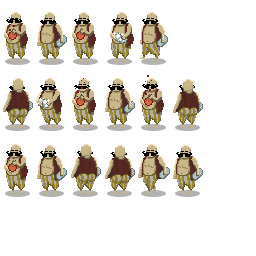
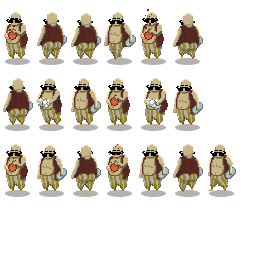
added animation for movement balancing

diff --git a/core/src/main/java/com/cultofboobles/entity/Player.java b/core/src/main/java/com/cultofboobles/entity/Player.java
@@ -31,6 +31,7 @@ public class Player implements Entity {
 
     private final Animation<TextureRegion> walkFront;
     private final Animation<TextureRegion> idleFront;
+    private final Animation<TextureRegion> walkBack;
     private final Animation<TextureRegion> idleBack;
     private final Animation<TextureRegion> cleaning;
     private final Animation<TextureRegion> sacrifice;
@@ -61,6 +62,7 @@ public class Player implements Entity {
 
         this.walkFront = new Animation<>(animationSpeed/4, atlas.findRegions("MainCharacter_WalkFront"));
         this.idleFront = new Animation<>(animationSpeed, atlas.findRegions("MainCharacter_IdleFront"));
+        this.walkBack = new Animation<>(animationSpeed/4, atlas.findRegions("MainCharacter_WalkBack"));
         this.idleBack = new Animation<>(animationSpeed, atlas.findRegions("MainCharacter_IdleBack"));
         this.cleaning = new Animation<>(animationSpeed, atlas.findRegions("MainCharacter_Cleaning"));
         this.sacrifice = new Animation<>(animationSpeed, atlas.findRegions("MainCharacter_Sacrifice"));
@@ -79,6 +81,7 @@ public class Player implements Entity {
         if (Gdx.input.isKeyPressed(Input.Keys.W)) {
             this.y += this.speed * deltaTime;
             isFacingBack = true;
+            currentAnimation = currentAnimationEnum.Walk;
             idle = false;
         } else if (Gdx.input.isKeyPressed(Input.Keys.S)) {
             this.y += this.speed * deltaTime * (-1);
@@ -123,7 +126,11 @@ public class Player implements Entity {
     public Sprite getSprite() {
         Sprite tmp;
         if(isFacingBack) {
+            if(currentAnimation.equals(currentAnimationEnum.Idle)) {
                 tmp = new Sprite(idleBack.getKeyFrame(Main.timeElapsed, true));
+            } else {
+                tmp = new Sprite(walkBack.getKeyFrame(Main.timeElapsed, true));
+            }
         } else {
             if(currentAnimation.equals(currentAnimationEnum.Idle)) {
                 tmp = new Sprite(idleFront.getKeyFrame(Main.timeElapsed, true));

diff --git a/core/src/main/java/com/cultofboobles/FirstScreen.java b/core/src/main/java/com/cultofboobles/FirstScreen.java
@@ -12,10 +12,7 @@ import com.badlogic.gdx.graphics.g2d.SpriteBatch;
 import com.badlogic.gdx.graphics.glutils.ShapeRenderer;
 import com.badlogic.gdx.math.Rectangle;
 import com.badlogic.gdx.scenes.scene2d.Stage;
-import com.cultofboobles.entity.Customer;
-import com.cultofboobles.entity.Entity;
-import com.cultofboobles.entity.EntityFactory;
-import com.cultofboobles.entity.Player;
+import com.cultofboobles.entity.*;
 import com.cultofboobles.obstacle.Bed;
 import com.cultofboobles.obstacle.Obstacle;
 import com.cultofboobles.obstacle.ObstacleFactory;
@@ -347,11 +344,21 @@ public class FirstScreen implements Screen {
         float winWidth = Gdx.graphics.getWidth();
         float winHeight = Gdx.graphics.getHeight();
 
-        font.draw(spriteBatch, "day time left: " + dayTimeLeft, winWidth / 7, 60);
-        font.draw(spriteBatch, "Day: " + day.count, (winWidth / 2) - 30, 60);
 
-        font.draw(spriteBatch, "Favor : " + Main.ecomonics.getBubbleFavor() + " / " + Main.favorDemand, (winWidth / 7) * 4 + 40, 80);
-        font.draw(spriteBatch, "Coins : " + Main.ecomonics.getMoneyCount(), (winWidth / 7) * 4 + 40, 45);
+        List<ToolTypeData> uiStuffList = new LinkedList<>();
+
+        uiStuffList.add(new ToolTypeData("day time left: " + dayTimeLeft, winWidth / 7, 60));
+        uiStuffList.add(new ToolTypeData("Day: " + Main.currentDay, winWidth / 2 - 80, 60, 2, 2));
+        //font.draw(spriteBatch, "Day: " + day.count, (winWidth / 2) - 30, 60);
+
+        uiStuffList.add(new ToolTypeData("Favor : " + Main.ecomonics.getBubbleFavor() + " / " + Main.favorDemand, (winWidth / 7) * 4 + 40, 80));
+        uiStuffList.add(new ToolTypeData("Coins : " + Main.ecomonics.getMoneyCount(), (winWidth / 7) * 4 + 40, 45));
+
+        spriteBatch.setColor(new Color(1, 0, 0, 0));
+        for (ToolTypeData uiStuff : uiStuffList) {
+            font.getData().setScale(uiStuff.scaleX, uiStuff.scaleY);
+            font.draw(spriteBatch, uiStuff.msg, uiStuff.x, uiStuff.y);
+        }
 
         spriteBatch.end();
     }

diff --git a/core/src/main/java/com/cultofboobles/obstacle/Bed.java b/core/src/main/java/com/cultofboobles/obstacle/Bed.java
@@ -62,9 +62,9 @@ public class Bed implements Obstacle {
                 "",
                 HitBox.types.EnterAble,
                 new Rectangle(
-                    x - sprite.getWidth() / 2,
+                    x - sprite.getWidth() / 2 + 15,
                     y - sprite.getHeight() / 2,
-                    sprite.getWidth() * 2,
+                    sprite.getWidth() * 2 - 30,
                     sprite.getHeight() * 2
                 )
             )
@@ -118,9 +118,9 @@ public class Bed implements Obstacle {
                 } else {
                     System.out.println("wait for customer");
                 }
-            } else if(Gdx.input.isKeyPressed(Input.Keys.Q)) {
-                if(!this.empty) {
-                    if(customer.amICleaned()) {
+            } else if (Gdx.input.isKeyPressed(Input.Keys.Q)) {
+                if (!this.empty) {
+                    if (customer.amICleaned()) {
                         if (customer.progressSacrificion()) {
                             this.empty = true;
                             this.free = true;
@@ -134,11 +134,11 @@ public class Bed implements Obstacle {
 
     @Override
     public Optional<Sprite> getOverLay() {
-        if(this.empty) {
+        if (this.empty) {
             return Optional.of(new Sprite(AtlasHandler.obstacle.findRegion("Empty")));
         }
 
-        if(customer.amICleaned()) {
+        if (customer.amICleaned()) {
             Sprite tmp = customer.getOverlaySacrifice();
             tmp.translate(x, y);
             return Optional.of(tmp);
